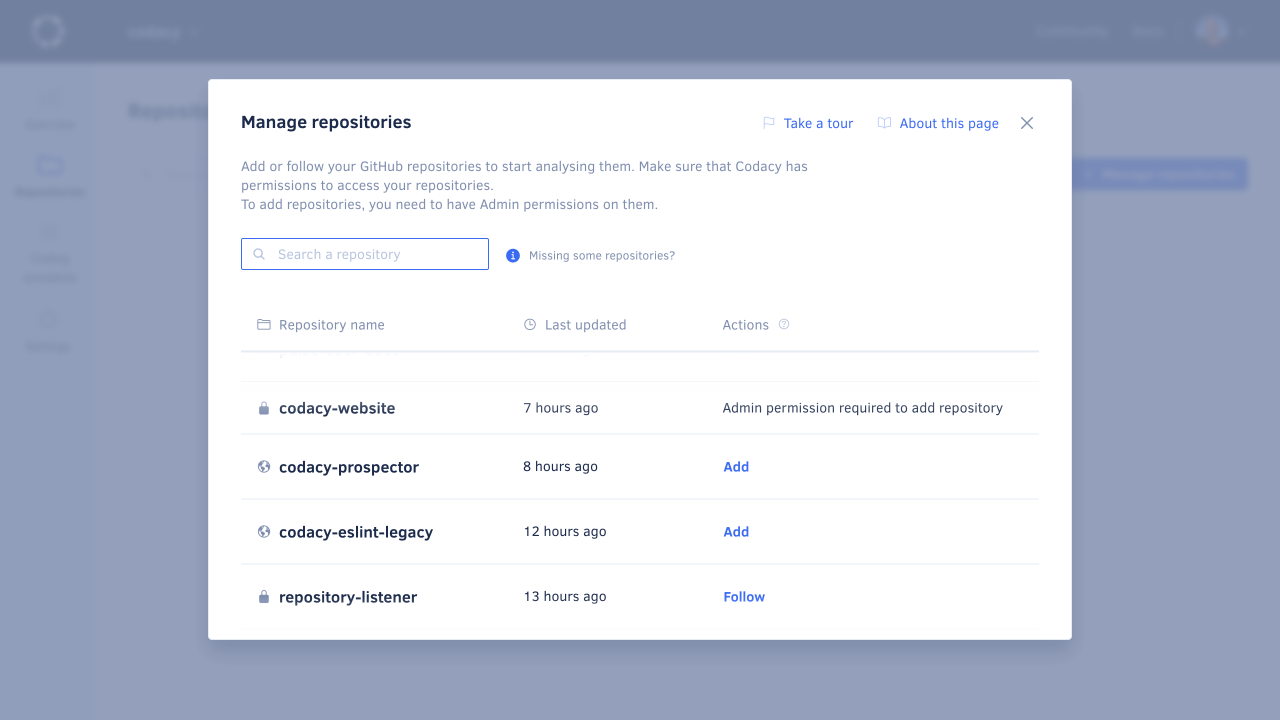
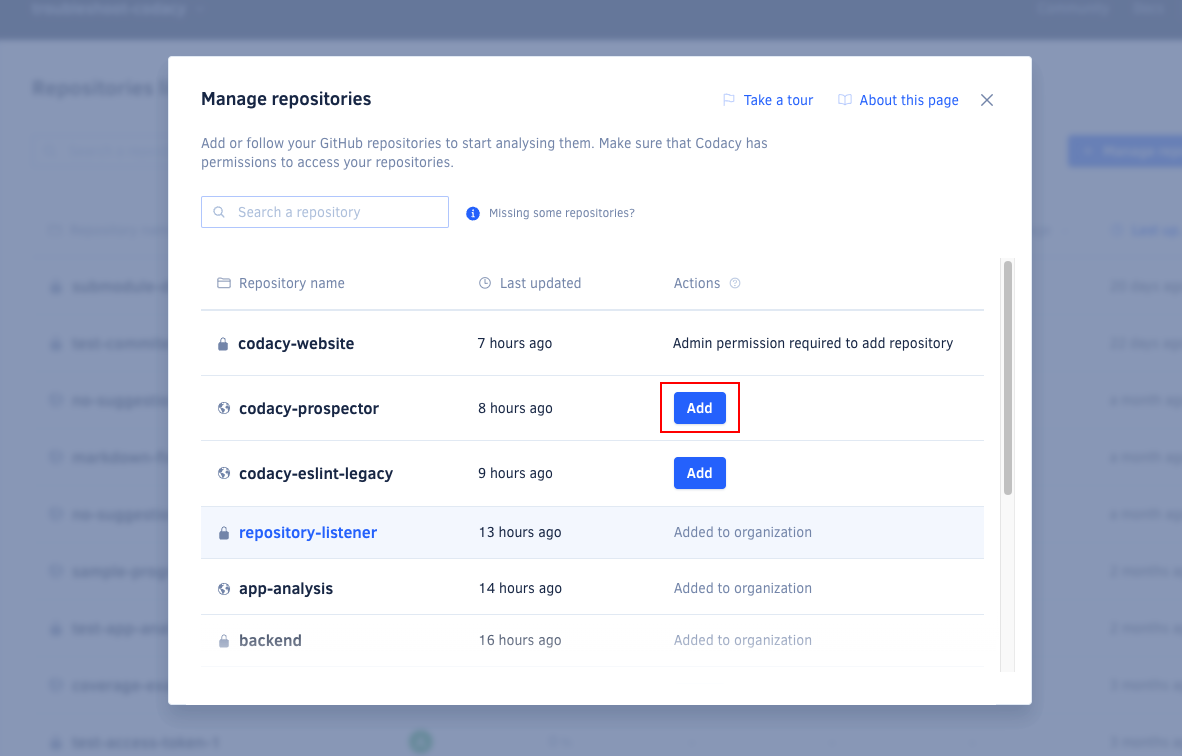
feat: Update screenshots and add new one

diff --git a/docs/organizations/managing-repositories.md b/docs/organizations/managing-repositories.md
@@ -56,7 +56,7 @@ To follow or unfollow a repository on Codacy:
 
 1.  Click the button **Manage repositories** at the top right-hand corner of the page. This opens a window listing your organization repositories.
 
-    ![Adding a repository](images/repositories-add.png)
+    ![Adding a repository](images/repositories-follow.png)
 
 1.  Click **Follow** or **Unfollow** next to the repositories you want to follow or unfollow. If you have many repositories, you can use the search field above the list to <span class="skip-vale">quickly</span> find a specific repository.
 
